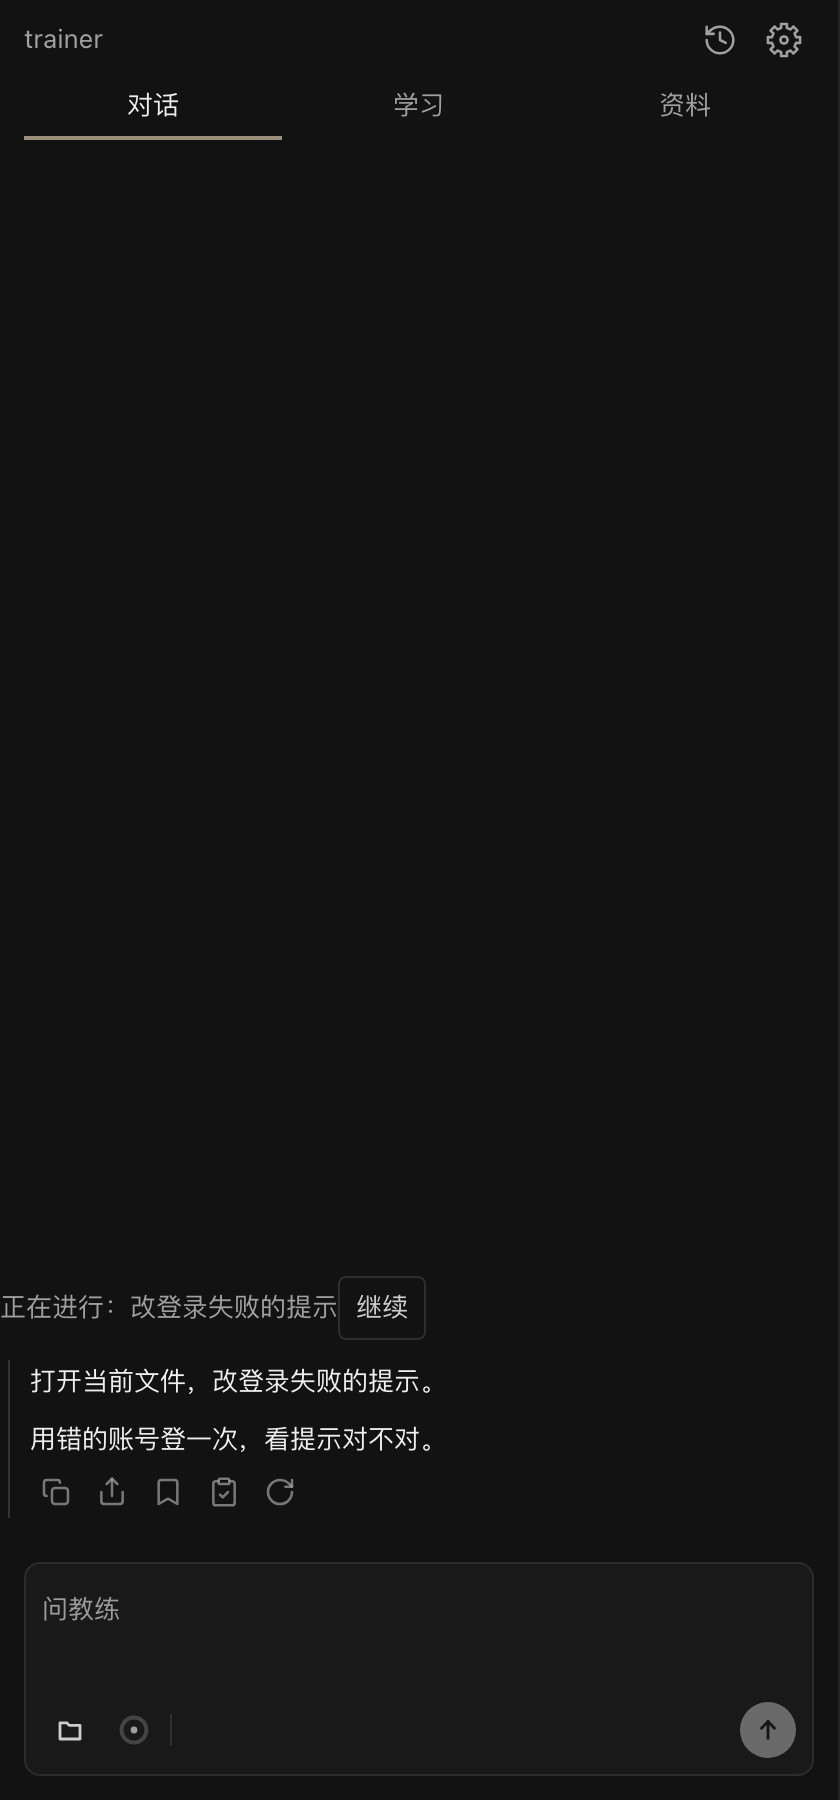
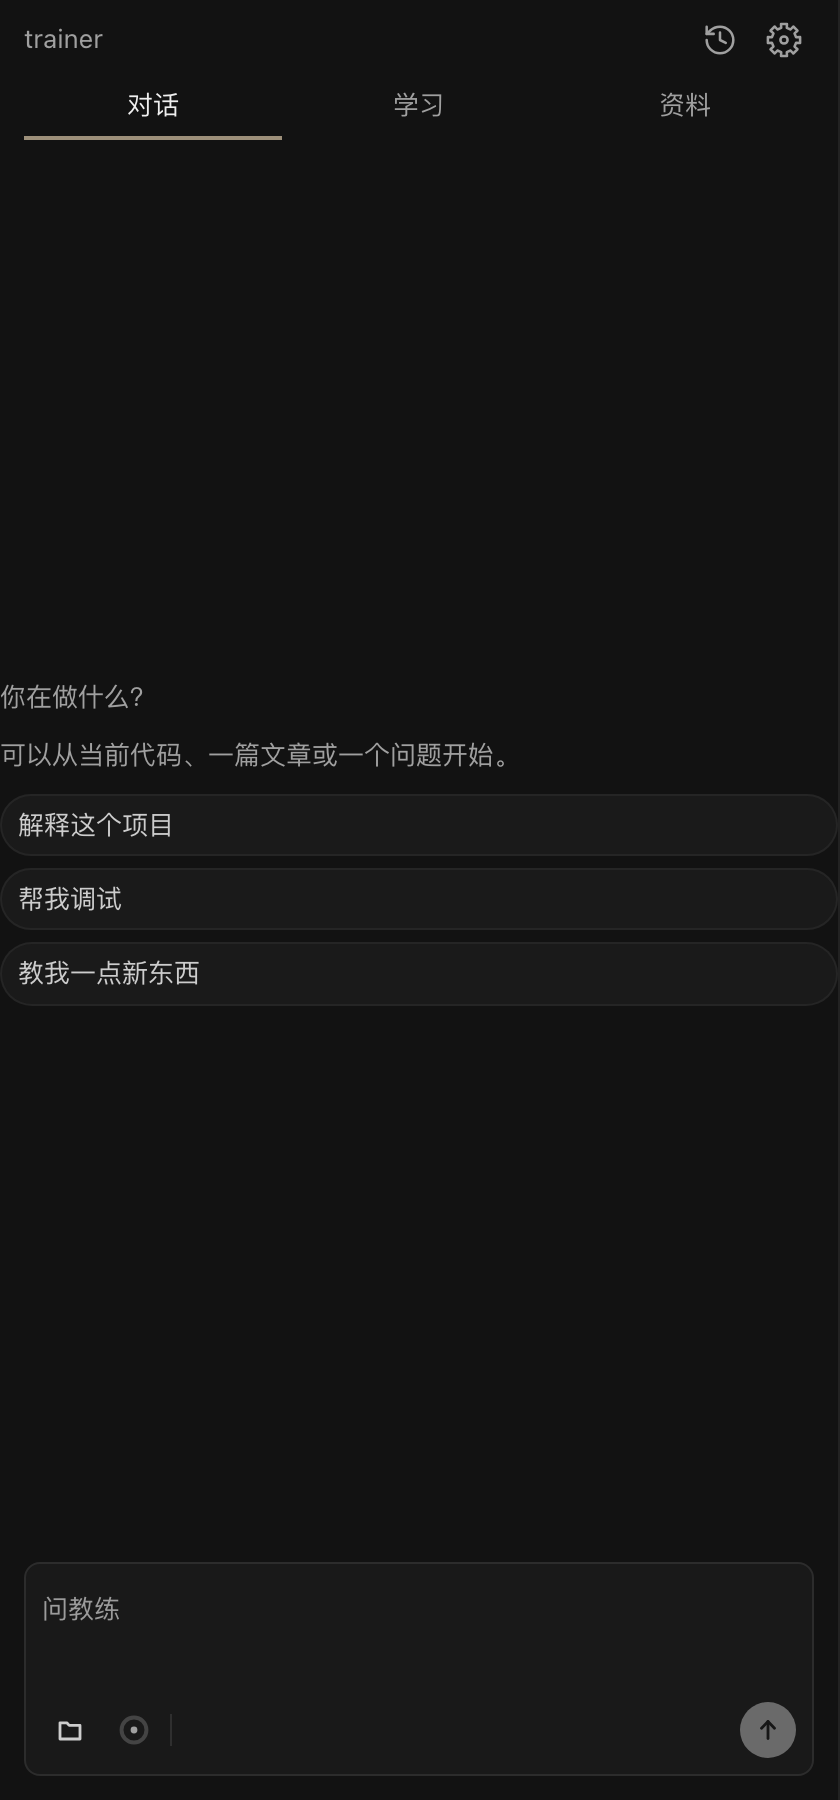
fix(coach): keep a first-run empty canvas free of stale task chips
The empty Coach state now reserves suggestions for an actual conversation;
a first-run canvas shows only the welcome question, start hint and three
starter actions. Golden first-run capture now uses the real empty scenario, so
the README no longer shows the ready-state conversation.

diff --git a/extension/webview/src/app/App.tsx b/extension/webview/src/app/App.tsx
@@ -9250,6 +9250,7 @@ export function App() {
   const coachSuggestionChipTexts = (
     activeView === "coach" &&
     !composerUsesTrainingFlow &&
+    !isFirstCoachConversation &&
     coachThreadNearEmpty &&
     providerCanCoachNow &&
     !shouldShowNeutralEmptyState &&
